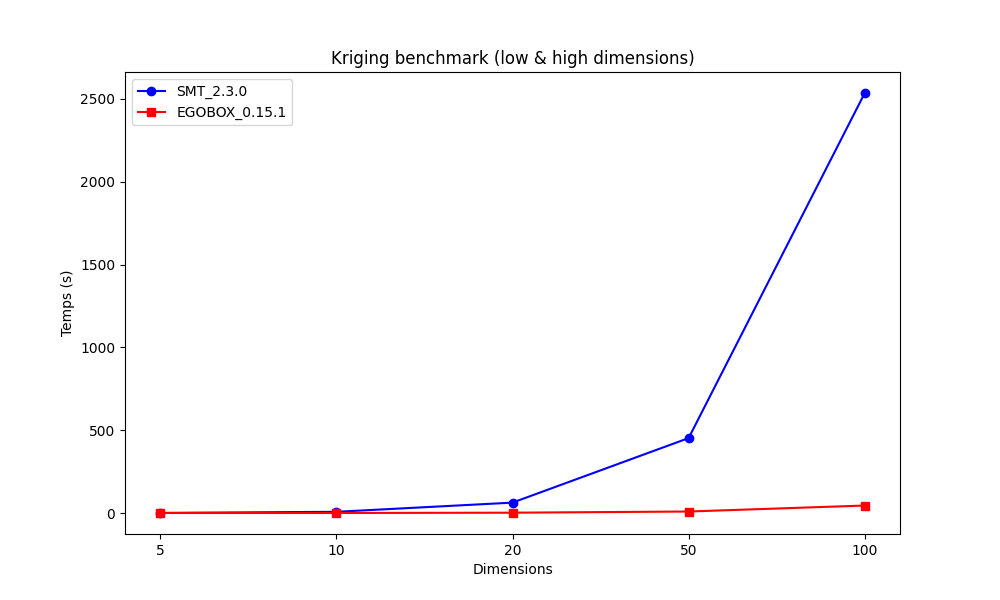
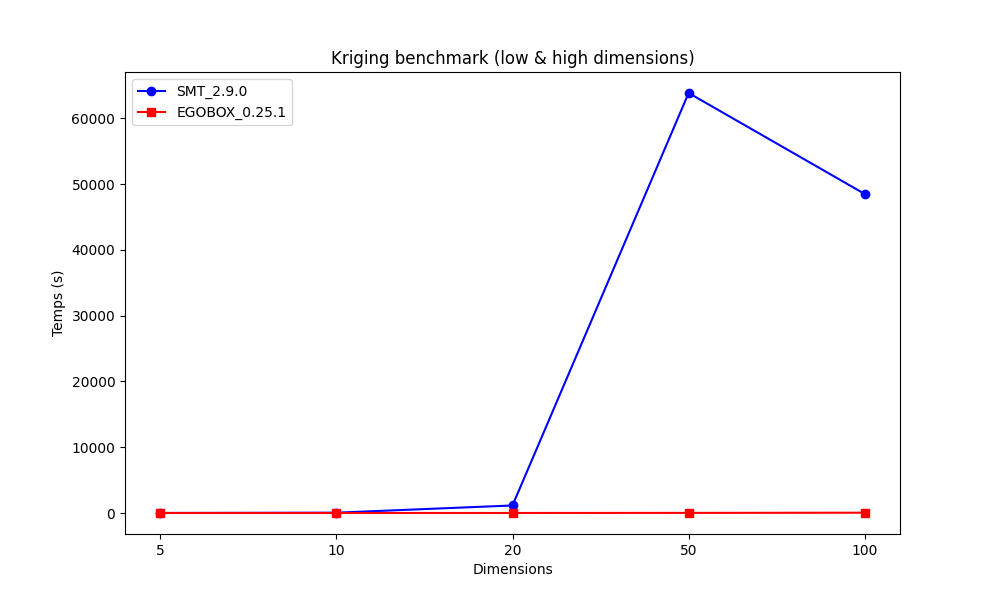
kriging update and new results. ATTENTION, weird results for the benchmark of SMT

diff --git a/kriging_bench.py b/kriging_bench.py
@@ -10,8 +10,8 @@ DIMENSIONS = [5, 10, 20, 50, 100]
 # DIMENSIONS = [5, 10]
 # NB_POINTS = [10, 13, 15]
 NB_POINTS = [50, 200, 400, 600, 1000]
-NB_ITER = 5
-CSV_FILENAME = "kriging.csv"
+NB_ITER = 2
+CSV_FILENAME = "results/kriging/kriging.csv"
 SMT_VERSION = "SMT_2.9.0"
 EGOBOX_VERSION = "EGOBOX_0.25.1"
 LIBRARIES = [SMT_VERSION, EGOBOX_VERSION]
@@ -39,7 +39,7 @@ def run_benchmark():
             xtypes = egx.to_specs(problem.xlimits)
             xt = egx.lhs(xtypes, num_points, seed=42)
             yt = problem(xt)
-            print(xt, yt)
+            # print(xt, yt)
             time = timeit.timeit(lambda: ALGOS[lib](xt, yt), number=NB_ITER)
             res = {
                 "lib": lib,
@@ -47,7 +47,7 @@ def run_benchmark():
                 "nb_points": num_points,
                 "time": time / NB_ITER,
             }
-            print(res)
+            # print(res)
             result.append(res)
     return result
 

diff --git a/krig_diag.py b/krig_diag.py
@@ -3,10 +3,10 @@ import matplotlib.pyplot as plt
 import numpy as np
 import argparse
 
-SMT_VERSION = "SMT_2.3.0"
-EGOBOX_VERSION = "EGOBOX_0.15.1"
+SMT_VERSION = "SMT_2.9.0"
+EGOBOX_VERSION = "EGOBOX_0.25.1"
 # data = {SMT_VERSION: {}, EGOBOX_VERSION: {}}
-CSV_FILENAME = "kriging.csv"
+CSV_FILENAME = "results/kriging/kriging.csv"
 NB_POINTS1 = [50, 200, 400]
 NB_POINTS2 = [600, 1000]
 
